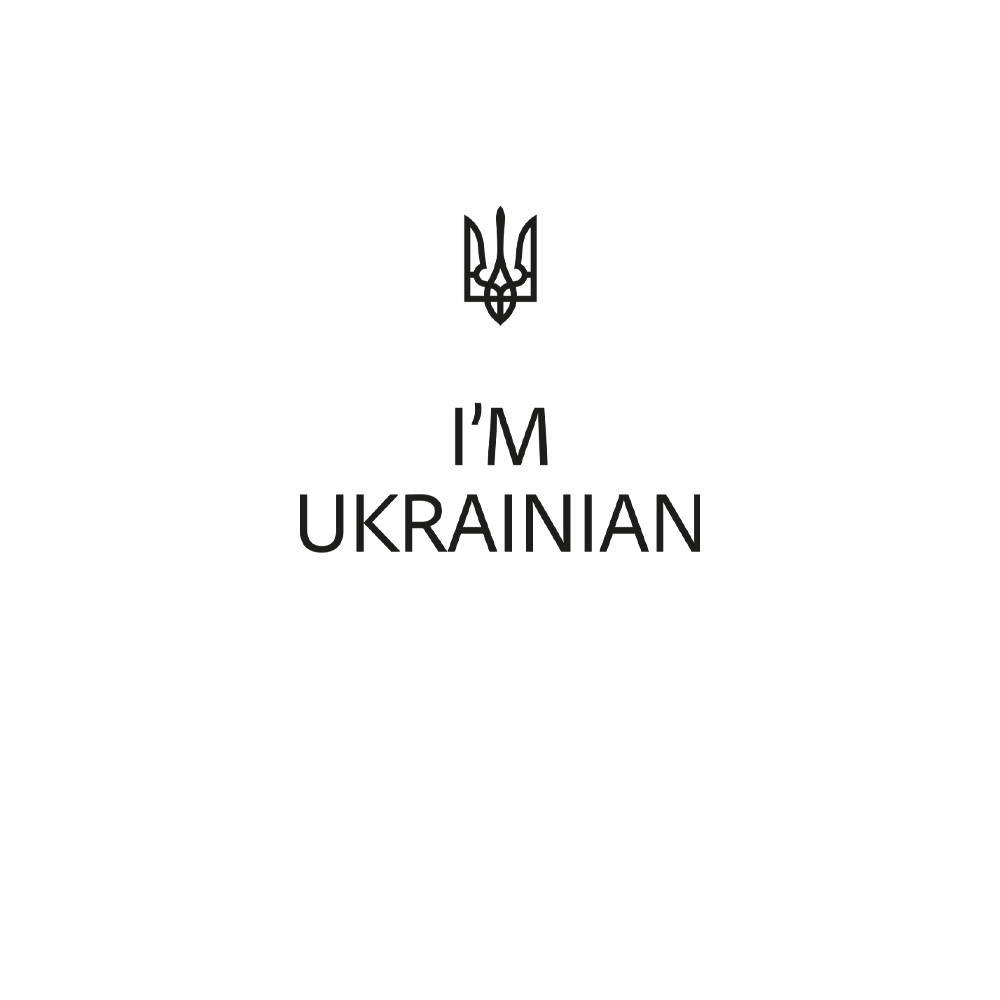
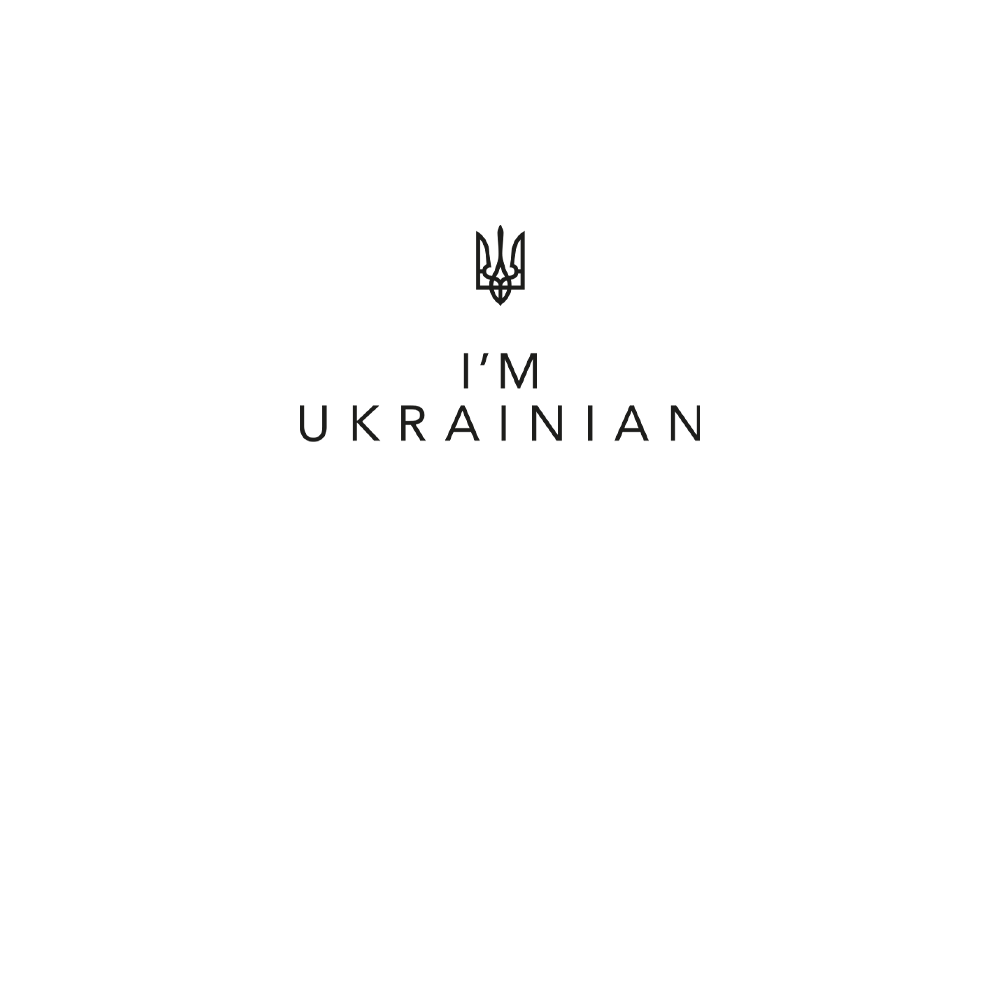
replace macet & preview

Changed region(s): [[0.403, 0.217, 0.713, 0.465], [0.279, 0.496, 0.713, 0.558], [0.279, 0.403, 0.372, 0.434]]

diff --git a/src/html/roznica.html b/src/html/roznica.html
@@ -218,8 +218,8 @@
    <div class="preview__main">
       <div class="designe preview__designe">
          <div class="designe__maket">
-            <img class="designe__t-shirt" src="@img/T-shirts/mensFrontBlck.png" alt="img">
-            <img class="designe__print" src="@img/PNG_Preview/preview_ikhrest-vsu_wht.png" alt="img">
+            <img class="designe__t-shirt" src="@img/T-shirts/mensFrontWht.png" alt="img">
+            <img class="designe__print" src="@img/PNG_Preview/preview_im-ukrainian_blck.png" alt="img">
          </div>
       </div>
       <button type="button" class="gear preview__gear">
@@ -231,7 +231,7 @@
          <div class="selected-print__item"></div>
          <div class="selected-print__item"></div>
          <div class="selected-print__item">
-            <img src="@img/PNG_Prints/print_ikhrest-vsu_wht.png" alt="img">
+            <img src="@img/PNG_Prints/print_im-ukrainian_blck.png" alt="img">
          </div>
       </button>
    </div>
@@ -240,10 +240,10 @@
          <button class="settings__close" type="button"></button>
          <div class="settings__color">
             <h2>Колір футболки</h2>
-            <input id="Blck" type="radio" name="color" checked>
+            <input id="Blck" type="radio" name="color">
             <label for="Blck"></label>
 
-            <input id="Wht" type="radio" name="color">
+            <input id="Wht" type="radio" name="color" checked>
             <label for="Wht"></label>
          </div>
          <div class="settings__front-back">
